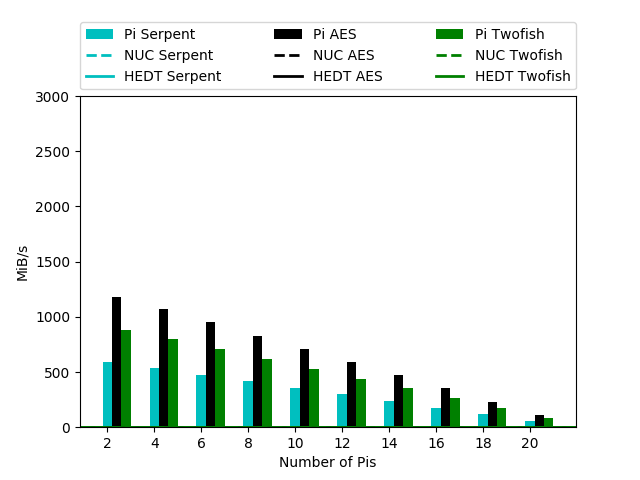
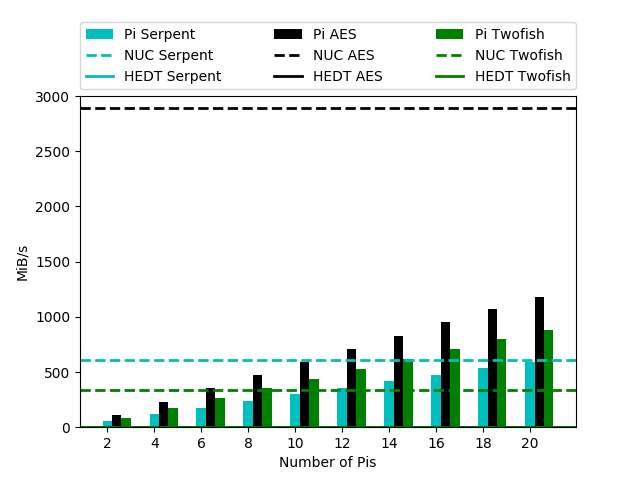
added 128

diff --git a/plots/barplot_128.py b/plots/barplot_128.py
@@ -16,17 +16,17 @@ fig,ax = plt.subplots()
 #################### ENCRYPT DATA ##############################
 
 ###SERPENT
-nuc_secrypt = 0.0
+nuc_secrypt = 79.2 
 hpc_secrypt = 0.0
 pi_secrypt = [52.54, 108.9, 165.15, 220.79, 276.91, 332.91, 388.33, 444.91, 501.85, 554.09]
 
 ###TWOFISH data
-nuc_tecrypt = 0.0
+nuc_tecrypt = 182.3
 hpc_tecrypt = 0.0
 pi_tecrypt = [78.03, 161.88, 245.24, 327.55, 410.9, 493.95, 576.59, 659.61, 743.01, 823.11]
 
 ###AES DATA
-nuc_aecrypt = 0.0
+nuc_aecrypt = 977.0
 hpc_aecrypt = 0.0
 pi_aecrypt = [95.26, 197.74, 299.99, 401.5, 503.73, 602.6, 703.38, 806.23, 909.04, 1007.0]
 
@@ -35,19 +35,19 @@ pi_aecrypt = [95.26, 197.74, 299.99, 401.5, 503.73, 602.6, 703.38, 806.23, 909.0
 ######################## DECRYPT DATA #########################
 
 ###SERPENT
-#nuc_secrypt = 0.0
-#hpc_secrypt = 0.0
-#pi_secrypt = [594.79, 537.23, 477.14, 416.78, 357.06, 297.08, 236.77, 177.2, 116.87,56.36]
+nuc_secrypt =  610.5 
+hpc_secrypt = 0.0
+pi_secrypt = [56.36, 116.87, 177.2, 236.77, 297.08, 357.06, 416.78, 477.14, 537.23,594.79]
 
 ###TWOFISH data
-#nuc_tecrypt = 0.0
-#hpc_tecrypt = 0.0
-#pi_tecrypt = [880.6, 794.89, 705.74, 616.56, 528.52, 439.68, 350.58, 262.44, 173.32, 83.62]
+nuc_tecrypt = 341.1
+hpc_tecrypt = 0.0
+pi_tecrypt = [83.62, 173.32, 262.44, 350.58, 439.68, 528.52, 616.56, 705.74, 794.89, 880.6]
 
 ###AES DATA
-#nuc_aecrypt = 0.0
-#hpc_aecrypt = 0.0
-#pi_aecrypt = [1183.05, 1069.88, 949.13,  827.78,  710.41,  591.98, 471.62, 352.67, 232.32, 112.01]
+nuc_aecrypt =  2889.1
+hpc_aecrypt = 0.0
+pi_aecrypt = [112.01, 232.32, 352.67, 471.62, 591.98, 710.41,  827.78, 949.13, 1069.88, 1183.05]
 
 
 #creates seperate plots for encrypt and decrypt --uncomment the one you need
